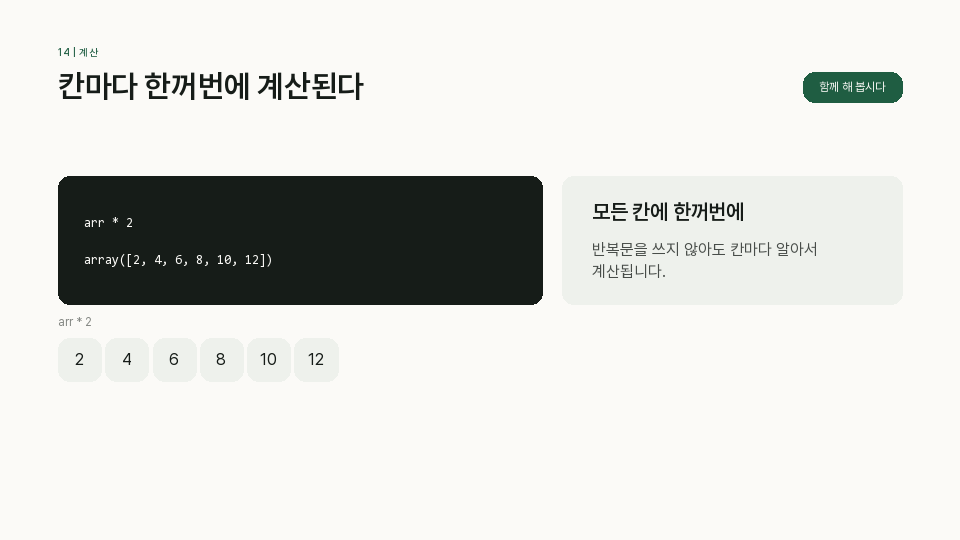
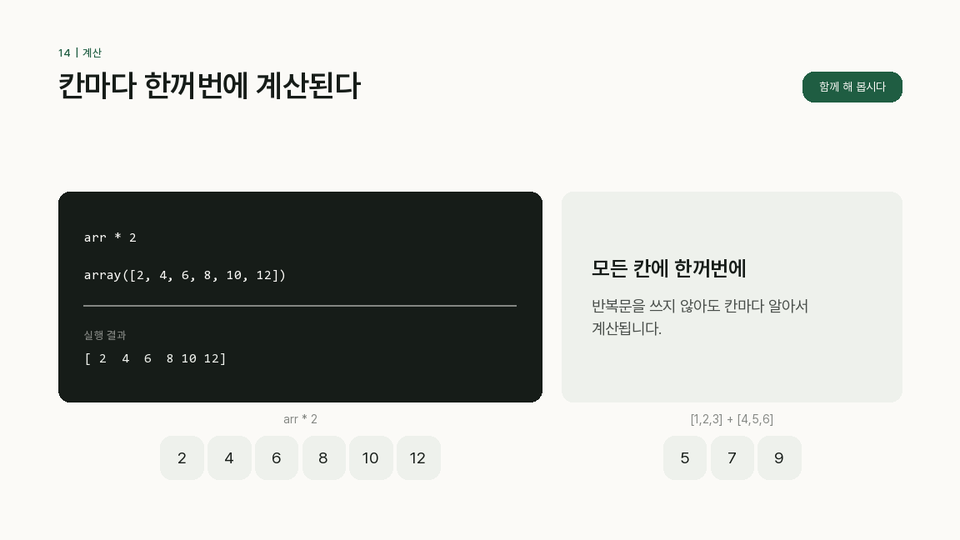
Apply principles §4 (two-column layout, one box per column) and §3 humanizer table
From the user's 2026-09-19/20 corrections on the Dive AI decks:
- divided_pair: two columns, one panel each — name + one-line description, a thin rule,
  then the real thing (code, or a bold line + body). Top and bottom blocks take the larger
  of the two columns, so the dividers line up on both sides
- code_explain: `output:` puts the run result inside the code panel under a rule instead of
  a second box in the same column; `cells` are centred in the code column and the new
  `cells_right` in the explain column, so the eye follows each column down
- anchors.block_bias 0.38 -> 0.5 (cards read it too): when the body does not fill the band,
  centre it instead of pushing it up; code_explain and divided_pair now place with resolve_y
- table: header labels keep header_gap (34pt) below the title
- lint AITELL: warning formula, condition-result formula, human analogy, unfounded
  'in any ~'; lint now also reads point/explain/pair texts
- lint_deck: in-panel text of divided_pair and code_explain output is exempt from GRID
- SKILL.md section for §4 and the §3 table; README gallery entry and refreshed preview

diff --git a/scripts/build.py b/scripts/build.py
@@ -303,7 +303,7 @@ def cards(d, s, m, sl):
     g.head(s, sl, span=9)
     mode = CARD_MODE[n]
     gv = d.spec["cards"]["gutter_v"]
-    BIAS = 0.38      # 남는 높이의 38%만 위에 둔다 — 정중앙보다 살짝 위가 안정적이다
+    BIAS = d.spec["anchors"].get("block_bias", 0.5)   # 원칙 §4 두 칸 배치: 위로 몰지 말고 가운데
 
     def cell_h(it, w):
         h = d.spec["shapes"]["badge_d"] + 12 + g.bh(it.get("title", ""), w, tstyle)
@@ -815,15 +815,36 @@ def code_explain(d, s, m, sl):
 
     eh_t = g.bh(sl.get("point", ""), ew - 60, "h2") if sl.get("point") else 0
     eh_b = g.bh(sl.get("explain", ""), ew - 60, "lead") if sl.get("explain") else 0
-    ph = max(len(lines) * cst["size"] * cst["leading"] + SH["code_pad_y"] * 2,
-             eh_t + (12 + eh_b if eh_b else 0) + 44)
-    y = g.block
+    code_h = len(lines) * cst["size"] * cst["leading"]
+    # 실행 결과는 코드 판 **안에** 가는 선으로 나눠 붙인다 (원칙 §4 '한 열에 상자가 둘이면 하나로').
+    # 코드 판 밑에 결과 판을 따로 두면 같은 열에 상자가 둘이 되어 지저분하다.
+    out = [str(l) for l in (sl.get("output") or [])]
+    OG = SH.get("divided_gap", 18)
+    lab_st = d.spec["styles"]["micro"]
+    out_h = (lab_st["size"] * lab_st["leading"] + 6 + len(out) * cst["size"] * cst["leading"]) if out else 0
+    inner = code_h + (2 * OG + out_h if out else 0)
+    ph = max(inner + SH["code_pad_y"] * 2, eh_t + (12 + eh_b if eh_b else 0) + 44)
+
+    cells = sl.get("cells") or []
+    cells_r = sl.get("cells_right") or []
+    cs, gp = SH["chipcell"], SH["chipcell_gap"]
+    below = (34 + cs) if (cells or cells_r) else 0
+    # 본문이 영역을 다 채우지 않으면 위로 몰지 않고 가운데에 (원칙 §4 두 칸 배치)
+    y = resolve_y(ph + below, d.spec, top=g.block)
     d.panel(s, cx, y, cw, ph, color="figure", radius=SH["panel_radius"])
-    d.text(s, "code", cx + SH["code_pad_x"], y + (ph - len(lines) * cst["size"]
-           * cst["leading"]) / 2, cw - SH["code_pad_x"] * 2,
-           len(lines) * cst["size"] * cst["leading"], lines, color="ground",
-           accent_paras=tuple(i for i, l in enumerate(lines) if l.lstrip().startswith("#")),
+    top = y + (ph - inner) / 2
+    d.text(s, "code", cx + SH["code_pad_x"], top, cw - SH["code_pad_x"] * 2, code_h, lines,
+           color="ground", accent_paras=tuple(i for i, l in enumerate(lines) if l.lstrip().startswith("#")),
            tag="code")
+    if out:
+        ry = top + code_h + OG
+        d.divider(s, cx + SH["code_pad_x"], ry, cw - SH["code_pad_x"] * 2, color="muted")
+        oy = ry + OG
+        lh_ = lab_st["size"] * lab_st["leading"]
+        d.text(s, "micro", cx + SH["code_pad_x"], oy, span_w(3), lh_, sl.get("output_label", "실행 결과"),
+               color="muted", tag="output-label")
+        d.text(s, "code", cx + SH["code_pad_x"], oy + lh_ + 6, cw - SH["code_pad_x"] * 2,
+               len(out) * cst["size"] * cst["leading"], out, color="accent_tint", tag="output")
     d.panel(s, ex, y, ew, ph, radius=SH["panel_radius"])
     ty = y + (ph - (eh_t + (12 + eh_b if eh_b else 0))) / 2
     if eh_t:
@@ -832,16 +853,90 @@ def code_explain(d, s, m, sl):
         d.text(s, "lead", ex + 30, ty + eh_t + 12, ew - 60, eh_b, sl["explain"],
                color="ink2", tag="explain-body")
 
-    cells = sl.get("cells") or []
-    if cells:
+    # 그림(배열 칸)은 **바로 위 상자의 열 안에 가운데**로 (원칙 §4, 2차시 23쪽).
+    # 상자는 오른쪽, 그림은 왼쪽에 몰려 있으면 시선이 왼쪽 위 → 아래 → 오른쪽 위로 튄다.
+    def _cells(vals, label, x0, w0):
+        vals = [str(v) for v in vals[:14]]
+        gw = len(vals) * cs + (len(vals) - 1) * gp
+        gx = x0 + (w0 - gw) / 2
         cy = y + ph + 34
-        if sl.get("cells_label"):
-            d.text(s, "small", cx, cy - 26, span_w(6), 20, sl["cells_label"],
-                   color="muted", tag="cells-label")
-        cs, gp = SH["chipcell"], SH["chipcell_gap"]
-        for i, v in enumerate(cells[:14]):
-            d.chip(s, cx + i * (cs + gp), cy, cs, cs, str(v),
+        if label:
+            d.text(s, "small", gx, cy - 26, gw, 20, label, color="muted", align="center",
+                   tag="cells-label")
+        for i, v in enumerate(vals):
+            d.chip(s, gx + i * (cs + gp), cy, cs, cs, v,
                    color="accent_tint", text_color="figure", style="lead")
+    if cells:
+        _cells(cells, sl.get("cells_label"), cx, cw)
+    if cells_r:
+        _cells(cells_r, sl.get("cells_right_label"), ex, ew)
+
+
+def divided_pair(d, s, m, sl):
+    """두 열, 열마다 상자 **하나**. 위는 이름과 한 줄 설명, 가는 선, 아래는 실제 모습.
+
+    원칙 §4 '한 열에 상자가 둘이면 하나로'(2차시 11쪽, 상자 4개 → 2개). 좌우 구분선 높이를
+    맞추려고 위 칸(제목+설명)은 양쪽 같은 스타일로, 아래 칸은 더 긴 쪽 높이에 맞춰 가운데에 둔다.
+    아래 칸은 `code:`(고정폭 줄) 또는 `head:`+`body:`(굵은 한 줄 + 설명) 중 하나.
+    """
+    g = L(d)
+    SH = d.spec["shapes"]
+    g.head(s, sl, span=12)
+    pair = (sl.get("pair") or [])[:2]
+    if len(pair) != 2:
+        raise SystemExit("divided_pair 는 항목이 정확히 2개여야 한다.")
+    gap = SH.get("compare_gap", 25)
+    pw = (span_w(12) - gap) / 2
+    PX, PY, G = 30, SH.get("divided_pad_y", 34), SH.get("divided_gap", 24)
+    iw = pw - 2 * PX
+    cst = d.spec["styles"]["code"]
+
+    def top_h(it):
+        th = g.bh(it.get("title", ""), iw, "h2")
+        sh_ = g.bh(it["desc"], iw, "body") if it.get("desc") else 0
+        return th, sh_, th + (6 + sh_ if sh_ else 0)
+
+    def bottom_h(it):
+        if it.get("code"):
+            return len(it["code"]) * cst["size"] * cst["leading"]
+        hh = g.bh(it.get("head", ""), iw, "h2") if it.get("head") else 0
+        bh_ = g.bh(it["body"], iw, "body") if it.get("body") else 0
+        return hh + (10 + bh_ if bh_ else 0)
+
+    T = max(top_h(it)[2] for it in pair)
+    B = max(bottom_h(it) for it in pair)
+    ph = PY * 2 + T + 2 * G + B
+    y = resolve_y(ph, d.spec, top=g.block)
+    for i, it in enumerate(pair):
+        x = col_x(1) + i * (pw + gap)
+        dark = bool(it.get("dark"))
+        d.panel(s, x, y, pw, ph, color="figure" if dark else "accent_tint", radius=SH["panel_radius"])
+        tc, bc = ("ground", "accent_tint") if dark else ("figure", "ink2")
+        th, sh_, tt = top_h(it)
+        ty = y + PY + (T - tt)
+        d.text(s, "h2", x + PX, ty, iw, th, it.get("title", ""), color=tc, tag="pair-title")
+        if sh_:
+            d.text(s, "body", x + PX, ty + th + 6, iw, sh_, it["desc"], color=bc, tag="pair-desc")
+        if it.get("label"):
+            d.text(s, "micro", x + pw - PX - span_w(3), y + PY - 14, span_w(3), 16, it["label"],
+                   color="accent" if not dark else "accent_tint", align="right", tag="pair-label")
+        ry = y + PY + T + G
+        d.divider(s, x + PX, ry, iw, color="muted" if dark else "hairline")
+        bh_all = bottom_h(it)
+        by = ry + G + (B - bh_all) / 2
+        if it.get("code"):
+            lines = [str(l) for l in it["code"]]
+            d.text(s, "code", x + PX, by, iw, bh_all, lines, color=tc,
+                   accent_paras=tuple(k for k, l in enumerate(lines) if l.lstrip().startswith("#")),
+                   tag="pair-code")
+        else:
+            hh = g.bh(it.get("head", ""), iw, "h2") if it.get("head") else 0
+            if hh:
+                d.text(s, "h2", x + PX, by, iw, hh, it["head"], color="accent" if not dark else "ground",
+                       tag="pair-head")
+            if it.get("body"):
+                d.text(s, "body", x + PX, by + hh + (10 if hh else 0), iw, bh_all - hh - (10 if hh else 0),
+                       it["body"], color=bc, tag="pair-body")
 
 
 def cellgrid(d, s, m, sl):
@@ -971,7 +1066,8 @@ def table(d, s, m, sl):
         warn(f"slide {d._slide_i}: 표 {len(rows)}행 > 한도 {lim}행 — 슬라이드를 나눠라")
     rows = rows[:lim]
     cols, pad = table_columns(d, n), T["pad_x"]
-    hy = T.get("header_y", g.block)
+    # 표 머리 라벨이 제목 바로 밑에 붙지 않게 조금 내린다 (원칙 §4 두 칸 배치)
+    hy = max(T.get("header_y", g.block), g.title_bottom + T.get("header_gap", 34))
     avail = g.bottom - hy - T["header_h"] - (26 if sl.get("footnote") else 0)
     row_h = min(52.0, max(T["row_h"], avail / max(1, len(rows))))
     d.plate(s, col_x(1), hy, span_w(12), T["header_h"], color="figure")
@@ -1047,7 +1143,7 @@ LAYOUTS = {"cover": cover, "closing": closing, "section": section, "chain": chai
            "statement": statement, "two_col": two_col, "cards": cards,
            "panel_list": panel_list, "card_grid": card_grid,
            "timeline": timeline, "stair": stair, "compare": compare, "nest": nest,
-           "code": code, "code_explain": code_explain,
+           "code": code, "code_explain": code_explain, "divided_pair": divided_pair,
            "cellgrid": cellgrid, "gallery": gallery,
            "data": data, "quote": quote, "table": table,
            "image_split": image_split, "image_full": image_full}

diff --git a/scripts/lint.py b/scripts/lint.py
@@ -21,6 +21,17 @@ CLICHE = ["살펴보겠습니다", "알아보겠습니다", "중요합니다", "
 # 중학생 대상 자료에서 한 단계 낮춰 쓰는 과장 표현.
 OVERSTATE = ["지옥", "즉사", "충격적", "경악", "소름", "미친", "완벽한", "절대적",
              "폭발적", "혁명적", "무조건", "엄청난"]
+# 원칙 §3 humanizer 표 (2026-09-19 지적) — 슬라이드 문구에서 실제로 걸린 공식 문장들.
+AITELL = [
+    (re.compile(r"[을를]\s*잊으면.*(않습니다|안 됩니다|없습니다)"),
+     "경고 공식 '~를 잊으면 ~않습니다' — 무엇을 하는지로 쓴다(예: plt.show() 는 '이제 화면에 띄워라'라는 뜻)"),
+    (re.compile(r"만\s*바꾸면.*바뀝니다"),
+     "조건–결과 공식 '~만 바꾸면 ~가 바뀝니다' — 어디에 적는지로 쓴다(예: 그래프 종류는 kind 에 적습니다)"),
+    (re.compile(r"사람이.*듯,?\s*(인공지능|AI|컴퓨터|모델)"),
+     "사람에 빗댄 대구 — 인공지능이 실제로 하는 일을 바로 쓴다"),
+    (re.compile(r"어떤\s*\S+에서나|언제나 옳|항상 좋"),
+     "근거 없는 단정 — 실제로 되는 예를 든다(예: 엑셀에서도 열리고 메모장으로도 볼 수 있습니다)"),
+]
 ERRORS: list[str] = []
 WARNS: list[str] = []
 
@@ -42,6 +53,10 @@ def texts_of(sl) -> list[str]:
     for it in (sl.get("items") or []):
         out += [str(it.get(k, "")) for k in
                 ("value", "unit", "caption", "index", "title", "body") if it.get(k)]
+    for k in ("point", "explain"):
+        if sl.get(k): out.append(str(sl[k]))
+    for it in (sl.get("pair") or []):
+        out += [str(it.get(k, "")) for k in ("title", "desc", "head", "body") if it.get(k)]
     for r in (sl.get("rows") or []):
         out += [str(c) for c in r]
     out += [str(h) for h in (sl.get("headers") or [])]
@@ -99,6 +114,9 @@ def main(path, spec_path=None):
             for c in OVERSTATE:
                 if c in t:
                     wrn(i, "OVERSTATE", f"과한 표현 '{c}' — 한 단계 낮춰라: {t[:34]!r}")
+            for rx, why in AITELL:
+                if rx.search(t):
+                    wrn(i, "AITELL", f"{why}: {t[:34]!r}")
 
         # 사진에는 출처를 단다. 받은 자료에 출처가 한 군데도 없던 것이 §10 의 첫 지적이다.
         imgs = bool(sl.get("image")) or any(it.get("image") for it in (sl.get("items") or []))

diff --git a/scripts/lint_deck.py b/scripts/lint_deck.py
@@ -82,10 +82,12 @@ def main(path):
                 # image_full 의 글자는 판 내부 좌표라 그리드 밖을 허용한다
                 # chain 의 들여쓰기(47.5pt step)와 배지 안 활자는 컬럼 그리드를 일부러 벗어난다.
                 # 계단이 관계를 나타내는 장치이기 때문이다 — 사용자 덱도 82.1/129.6/177.1 이다.
+                # pair-·output 은 판 안의 글(divided_pair, code_explain 실행 결과)이라 판 여백 기준이다.
                 if b["tag"].startswith(("chain-", "badge-", "panel-", "chip-",
                                         "card-", "stair-", "compare-", "nest-",
                                         "node-", "ring-", "code", "gallery-",
-                                        "cg-", "explain-", "cells-")) or \
+                                        "cg-", "explain-", "cells-",
+                                        "pair-", "output")) or \
                    b["tag"] in ("full-title", "caption", "ledger-index") or \
                    (b["tag"] == "eyebrow" and b["y"] > 300):
                     continue

diff --git a/scripts/deckkit.py b/scripts/deckkit.py
@@ -207,7 +207,7 @@ def resolve_y(block_height: float, spec: dict, top: float | None = None) -> floa
     r = spec.get("rhythm_y")
     t = top if top is not None else (r["content_y"] if r else 56.0)
     bottom = r["content_bottom"] if r else 484.0
-    bias = spec["anchors"].get("block_bias", 0.38)
+    bias = spec["anchors"].get("block_bias", 0.5)
     return t + max(0.0, (bottom - t - block_height) * bias)
 
 

diff --git a/README.md b/README.md
@@ -52,7 +52,7 @@ AI로 만든 PPT는 내용과 무관하게 알아봅니다. 원인은 대부분 
 
 <br>
 
-## 레이아웃 10종
+## 레이아웃 11종
 
 <table>
 <tr>
@@ -64,8 +64,12 @@ AI로 만든 PPT는 내용과 무관하게 알아봅니다. 원인은 대부분 
 <td><img src="docs/data.png" alt="data"><br><code>data</code> · 히어로 1 + 보조 2의 비대칭 위계</td>
 </tr>
 <tr>
-<td><img src="docs/code-explain.png" alt="code_explain"><br><code>code_explain</code> · 코드 왼쪽, 설명 오른쪽, 배열 칸 아래</td>
+<td><img src="docs/code-explain.png" alt="code_explain"><br><code>code_explain</code> · 코드 왼쪽(실행 결과는 판 안에), 설명 오른쪽, 칸 그림은 각 열 가운데</td>
 <td><img src="docs/gallery.png" alt="gallery"><br><code>gallery</code> · 같은 숫자를 여러 방식으로</td>
+</tr>
+<tr>
+<td><img src="docs/divided-pair.png" alt="divided_pair"><br><code>divided_pair</code> · 열마다 상자 하나 — 이름·한 줄 설명 / 가는 선 / 실제 모습. 좌우 구분선 높이가 나란하다</td>
+<td></td>
 </tr>
 <tr>
 <td><img src="docs/closing-qa.png" alt="closing (질문 시간)"><br><code>closing</code> · 마무리 질문 장. 알약 라벨 · 큰 제목 · 맺음말 한 줄, 그림은 선택</td>
